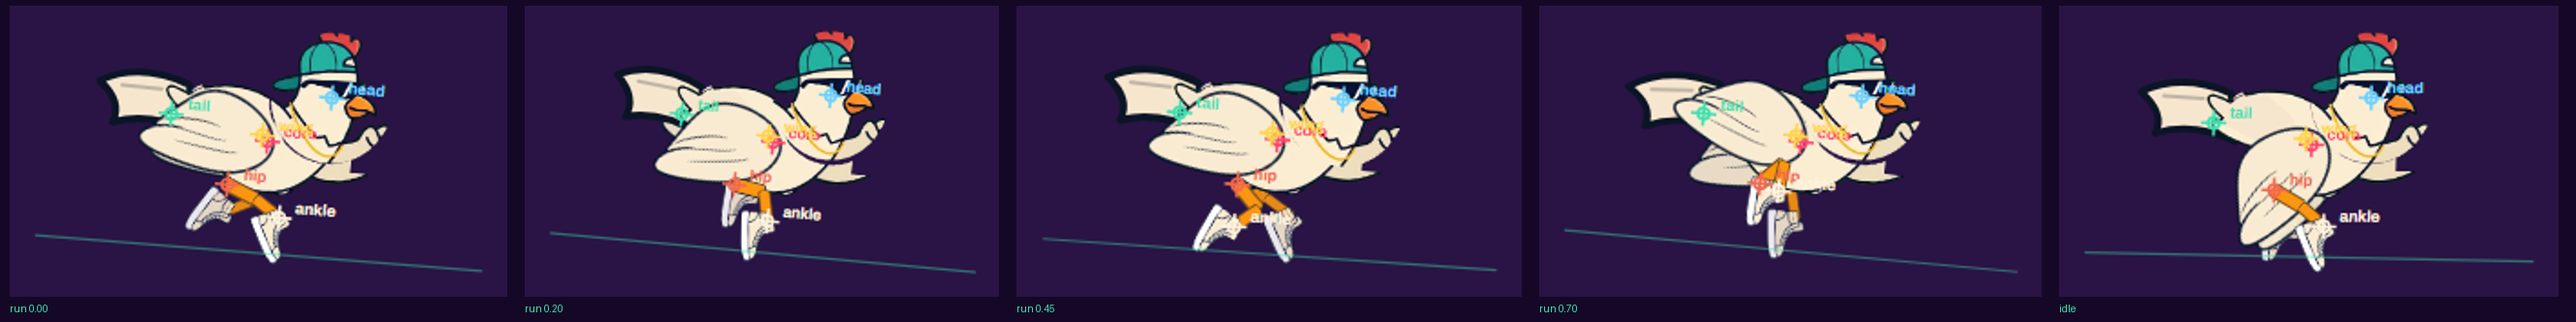
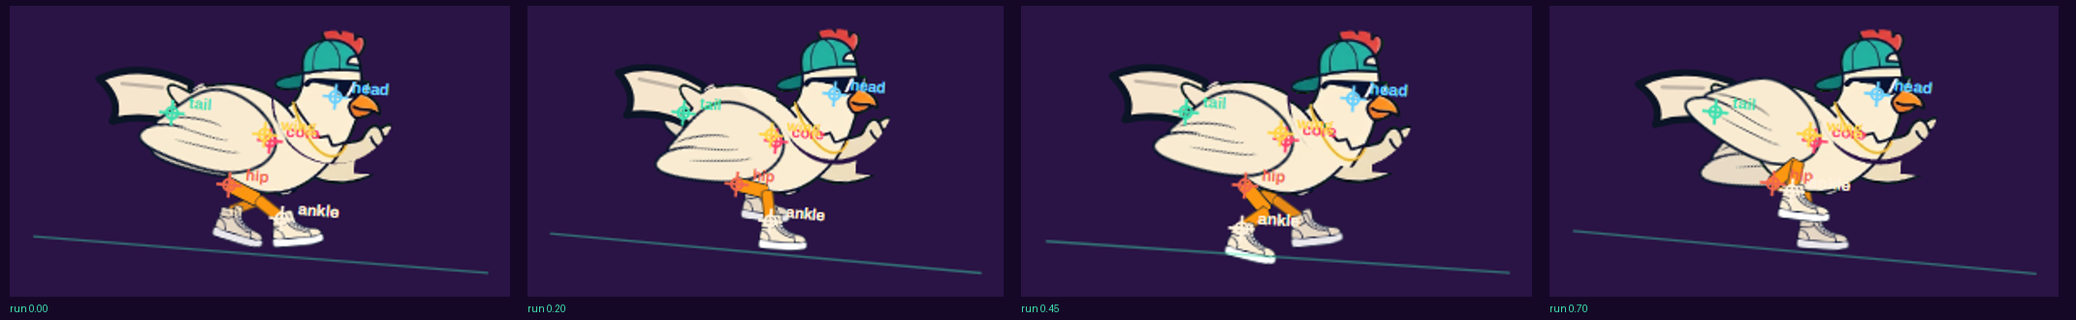
Harden the input path, and stop the chicken running on his toes
Instrumented the real pressJump + updatePlay loop with a fixed timestep, because
headless virtual time only advances rAF a frame or two and cannot measure this.
The log shows holding climbs correctly - vy 0 to -821, 572 units of altitude - so
the flight physics was never the problem. The failure was upstream, in input.

Two causes fixed:
- A press that started the run returned early, so beginning the game by holding
  the screen had that hold swallowed by the menu transition. It now falls through
  and the same press flies.
- Input relied on Pointer Events alone. Touch and mouse listeners are added
  alongside; pressJump/releaseJump are idempotent so overlapping families are
  harmless.

The sneakers were rotated an extra quarter turn left over from the procedural
shoe, which drew its shape inside an already-rotated frame. The shoe art is
already toe-forward, so that turn stood him on his toes. Now the sole stays flat.

?dbg=1 shows an on-screen readout of held/latch/vy/y/ground/mode/taps.

Claude-Session: https://claude.ai/code/session_01GPMrTdwpCZtjDF6U8tWZ25

diff --git a/index.html b/index.html
@@ -212,6 +212,7 @@
     </div>
   </div>
 
+  <pre id="selftest" style="position:fixed;left:0;top:0;z-index:99;color:#0f0;font:11px monospace;background:#000;margin:0;display:none"></pre>
   <div id="tut">
     <svg viewBox="0 0 24 24"><path d="M12 3v9"/><path d="m8.5 6.5 3.5-3.5 3.5 3.5"/><circle cx="12" cy="17" r="4"/></svg>
     HOLD TO FLY
@@ -745,8 +746,10 @@ function drawWingPart(px, py, ang, tip, open, col, far){
 }
 function drawShoePart(kx,ky,fx,fy,col,far){
   if(!partReady('shoe')) return drawSneaker(kx,ky,fx,fy,col);
-  const a=Math.atan2(fx-kx,fy-ky)*0.5;
-  ctx.save(); ctx.translate(fx,fy); ctx.rotate(-a+Math.PI/2);
+  // the shoe ART already points toe-forward, so it needs no quarter turn; the
+  // +PI/2 was left over from the procedural shoe, which drew inside a rotated frame
+  const tilt = -Math.atan2(fx-kx, fy-ky) * 0.18;
+  ctx.save(); ctx.translate(fx,fy); ctx.rotate(tilt);
   ctx.save(); if(far) ctx.globalAlpha=0.9;
   drawPart('shoe'); ctx.restore();
   ctx.restore();
@@ -1771,8 +1774,10 @@ function spawnPattern(){
    INPUT
    ============================================================ */
 function pressJump(){
-  if(game.mode==='menu'){ startRun(); return; }
-  if(game.mode==='dead'){ if(game.deadT>0.35) startRun(); return; }
+  if(game.mode==='menu'){ startRun(); }              // fall through: the same press flies
+  else if(game.mode==='dead'){
+    if(game.deadT>0.35) startRun(); else return;
+  }
   if(game.mode!=='play') return;
   if(!player.jumpHeld){
     player.flapT = 0.13;                       // start the downstroke immediately
@@ -1786,24 +1791,32 @@ function pressJump(){
     S.flap();
   }
   player.jumpHeld = true;
+  game.tapCount = (game.tapCount||0)+1;
   if(game.tut){ game.tut=false; elTut.classList.remove('show'); }
 }
 function releaseJump(){ player.jumpHeld = false; }
-/* Track pointers by id. A phone fires pointercancel on the smallest finger
-   movement, and releasing on that made "hold to fly" stop silently. */
+/* Input comes from three families because relying on Pointer Events alone left
+   devices where the hold never registered. pressJump/releaseJump are idempotent,
+   so overlapping events from two families are harmless. */
 const held = new Set();
-window.addEventListener('pointerdown', e => {
-  audioInit();
-  if(e.target.closest('button')) return;
-  held.add(e.pointerId);
-  pressJump();
-}, {passive:true});
+function onBtn(e){ const t=e.target; return t && t.closest && t.closest('button'); }
+function downFrom(e){ audioInit(); if(onBtn(e)) return; pressJump(); }
+
+window.addEventListener('pointerdown', e => { if(onBtn(e)) return; held.add(e.pointerId); downFrom(e); }, {passive:true});
 function liftPointer(e){
   held.delete(e.pointerId);
   if(held.size === 0) releaseJump();
 }
 window.addEventListener('pointerup', liftPointer, {passive:true});
 window.addEventListener('pointercancel', liftPointer, {passive:true});
+
+window.addEventListener('touchstart', downFrom, {passive:true});
+function touchLift(e){ if(!e.touches || e.touches.length === 0){ held.clear(); releaseJump(); } }
+window.addEventListener('touchend', touchLift, {passive:true});
+window.addEventListener('touchcancel', touchLift, {passive:true});
+
+window.addEventListener('mousedown', downFrom);
+window.addEventListener('mouseup', ()=>{ held.clear(); releaseJump(); });
 window.addEventListener('blur', ()=>{ held.clear(); releaseJump(); });
 window.addEventListener('keydown', e => {
   if(e.code==='Space'||e.code==='ArrowUp'||e.code==='KeyW'){
@@ -2139,8 +2152,14 @@ function updatePlay(dt){
   }
   // HUD
   elScore.textContent = pad6(game.score);
-  if(game.dbg) document.title = 'y='+Math.round(p.y)+' vy='+Math.round(p.vy)+
-    ' held='+(p.jumpHeld?1:0)+' t='+game.runT.toFixed(1);
+  if(game.dbg){
+    const el=document.getElementById('selftest');
+    if(el){ el.style.display='block';
+      el.textContent = 'held='+(p.jumpHeld?1:0)+'  latch='+(p.flapLatch||0).toFixed(2)+
+        '  y='+Math.round(p.y)+'  vy='+Math.round(p.vy)+'  ground='+(p.onGround?1:0)+
+        '  mode='+game.mode+'  taps='+(game.tapCount||0);
+    }
+  }
 }
 
 function nearMiss(o){
@@ -2654,6 +2673,24 @@ function boot(){
   if(/[?&]stage/.test(location.search)) game.stage = true;
   if(/[?&]rig/.test(location.search)) game.rig = true;
   if(/[?&]align/.test(location.search)) game.align = true;
+  if(/[?&]selftest/.test(location.search)){
+    // Drive the REAL pressJump + updatePlay with a fixed step. Headless virtual
+    // time only advances rAF a frame or two, so a live test cannot measure this.
+    setTimeout(()=>{
+      startRun();
+      const log=[]; const dt=1/60;
+      for(let i=0;i<170;i++){
+        if(i>30 && i<75){ if(!player.jumpHeld) pressJump(); }
+        else if(player.jumpHeld) releaseJump();
+        updatePlay(dt);
+        if(i%5===0) log.push(
+          (i*dt).toFixed(2)+' y='+Math.round(player.y)+' vy='+Math.round(player.vy)+
+          ' held='+(player.jumpHeld?1:0)+' latch='+(player.flapLatch||0).toFixed(2)+
+          ' g='+(player.onGround?1:0));
+      }
+      document.getElementById('selftest').textContent = log.join(String.fromCharCode(10));
+    }, 40);
+  }
   const th=/[?&]theme=([a-z]+)/.exec(location.search);
   if(th) game.forceTheme = THEMES.find(t=>t.id===th[1]) || THEMES[0];
   if(/[?&]solo/.test(location.search)){ game.solo = true; document.body.classList.add('solo'); }
